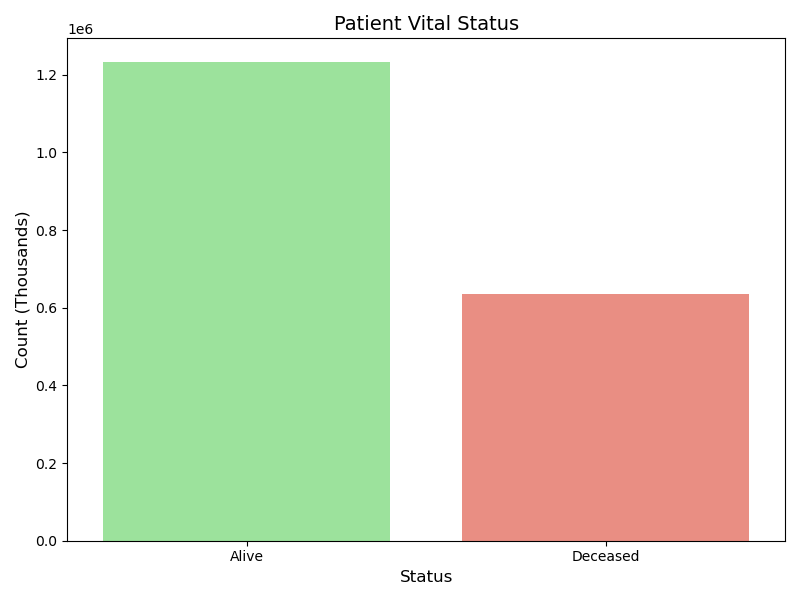
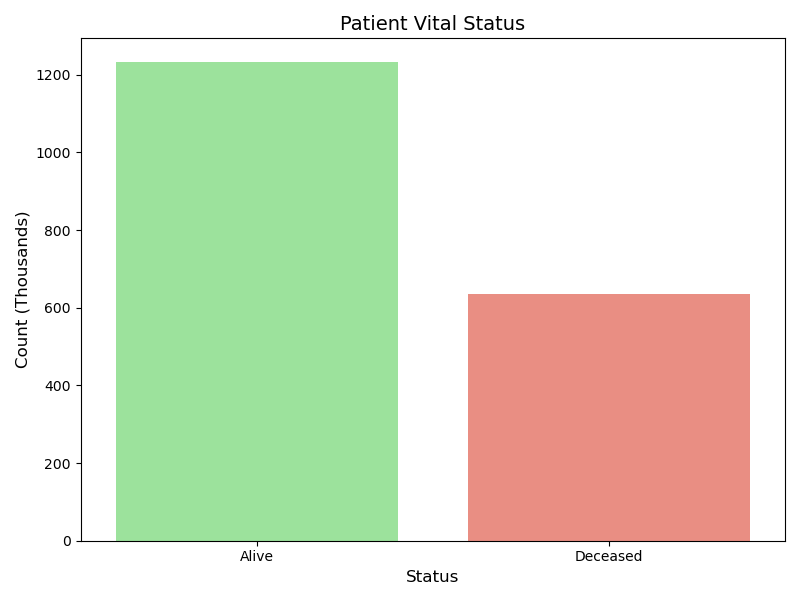
Fix Unit/Label Mismatch: Plot scaled values (Thousands) to match axis labels

diff --git a/patient_demographics/analyze_patient.py b/patient_demographics/analyze_patient.py
@@ -28,7 +28,7 @@ if "GENDER" in df.columns:
     # Count
     gender_counts = df['GENDER_LABEL'].value_counts()
     
-    # Remove zero counts
+    # Remove zero counts (Strictly)
     gender_counts = gender_counts[gender_counts > 0]
     
     # Scale to Thousands
@@ -36,9 +36,10 @@ if "GENDER" in df.columns:
     
     plt.figure(figsize=(8, 6))
     # Use simple colors
-    colors = ['lightblue' if x == 'Male' else 'pink' if x == 'Female' else 'gray' for x in gender_counts.index]
+    colors = ['lightblue' if x == 'Male' else 'pink' if x == 'Female' else 'gray' for x in gender_counts_scaled.index]
     
-    ax = sns.barplot(x=gender_counts.index, y=gender_counts.values, palette=colors)
+    # FIX: Plot the SCALED values
+    ax = sns.barplot(x=gender_counts_scaled.index, y=gender_counts_scaled.values, palette=colors)
     
     plt.title("Patient Gender Distribution", fontsize=14)
     plt.xlabel("Gender", fontsize=12)
@@ -72,9 +73,10 @@ if "VITALSTATUS" in df.columns:
     vital_counts_scaled = vital_counts / 1000
     
     plt.figure(figsize=(8, 6))
-    colors = ['lightgreen' if x == 'Alive' else 'salmon' for x in vital_counts.index]
+    colors = ['lightgreen' if x == 'Alive' else 'salmon' for x in vital_counts_scaled.index]
     
-    sns.barplot(x=vital_counts.index, y=vital_counts.values, palette=colors)
+    # FIX: Plot the SCALED values
+    sns.barplot(x=vital_counts_scaled.index, y=vital_counts_scaled.values, palette=colors)
     
     plt.title("Patient Vital Status", fontsize=14)
     plt.xlabel("Status", fontsize=12)
